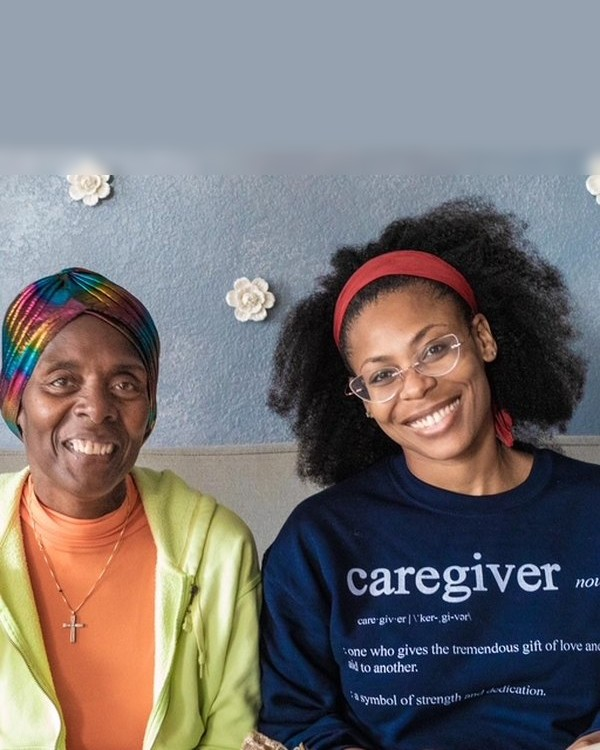
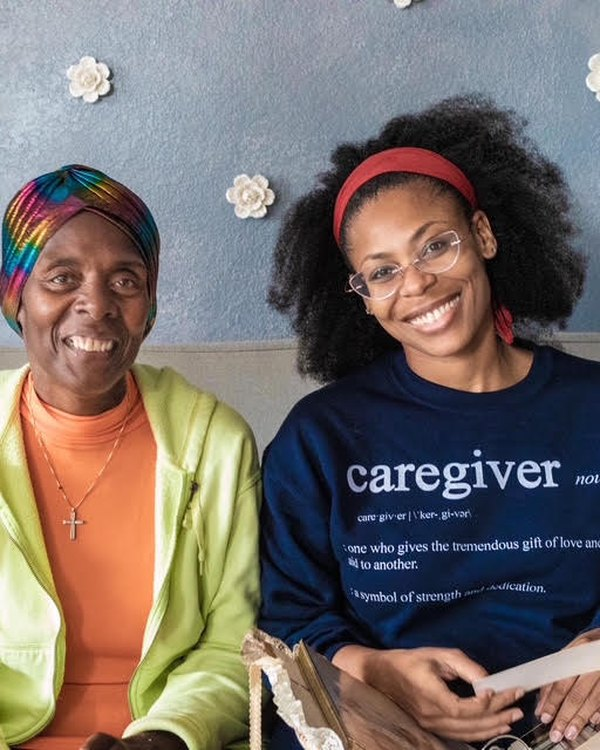
About: 63M; Alma Instagram; warm grade on all people photos; fix Jacquelyn photo

diff --git a/patch25.py b/patch25.py
@@ -1,0 +1,100 @@
+#!/usr/bin/env python3
+# ALL of today's changes in one idempotent pass (safe to re-run):
+#   1) About: 64 -> 63 million
+#   2) Alma Valencia: add Instagram handle (+ tidy stale placeholder comment)
+#   3) Photo grade: add .photo-grade CSS rule (gentle) and tag the 5 Join
+#      facilitator photos + the 2 About "who built this" photos.
+# Illustrations are intentionally left untouched. Run from repo root (~/tcd).
+
+import pathlib, sys, datetime
+STAMP = datetime.datetime.now().strftime("%Y%m%d-%H%M%S")
+
+def die(m):
+    print("ABORTED:", m); print("Nothing written. Files untouched."); sys.exit(1)
+
+RULE = (
+    "\n/* Unifying grade for all real people photos (facilitators + About). "
+    "Tune here to change every photo at once. Illustrations excluded. */\n"
+    ".photo-grade {\n"
+    "  filter: brightness(1.03) contrast(0.95) saturate(0.92) sepia(0.10);\n"
+    "}\n"
+)
+
+bufs = {}
+notes = []
+
+# ---------- about/page.tsx ----------
+pa = pathlib.Path("app/about/page.tsx")
+if not pa.exists(): die("can't find app/about/page.tsx")
+sa = pa.read_text()
+
+if "More than 64 million" in sa:
+    sa = sa.replace("More than 64 million", "More than 63 million", 1); notes.append("64->63: applied")
+elif "More than 63 million" in sa:
+    notes.append("64->63: already in place")
+else:
+    die("about: couldn't find 64/63 million line.")
+
+OLD_IMG = 'className="aspect-[4/5] w-full max-w-[320px] rounded-2xl object-cover"'
+NEW_IMG = 'className="aspect-[4/5] w-full max-w-[320px] rounded-2xl object-cover photo-grade"'
+if "rounded-2xl object-cover photo-grade" in sa:
+    notes.append("about photos grade: already in place")
+elif sa.count(OLD_IMG) == 2:
+    sa = sa.replace(OLD_IMG, NEW_IMG); notes.append("about photos grade: applied (2)")
+else:
+    die(f"about: image class expected 2 matches, found {sa.count(OLD_IMG)}.")
+bufs[pa] = sa
+
+# ---------- join/facilitators.tsx ----------
+pf = pathlib.Path("app/join/facilitators.tsx")
+if not pf.exists(): die("can't find app/join/facilitators.tsx")
+sf = pf.read_text()
+
+# Alma instagram
+if "mom_has_dementia" in sf:
+    notes.append("alma IG: already in place")
+else:
+    OLD_A = '''    photo: "/illustrations/alma.jpg",
+  },'''
+    NEW_A = '''    photo: "/illustrations/alma.jpg",
+    instagram: "https://www.instagram.com/mom_has_dementia",
+  },'''
+    if sf.count(OLD_A) != 1:
+        die(f"facilitators: Alma photo anchor expected 1 match, found {sf.count(OLD_A)}.")
+    sf = sf.replace(OLD_A, NEW_A, 1); notes.append("alma IG: applied")
+STALE = "  // Alma's Instagram handle still TBD; bio and photo confirmed.\n"
+if STALE in sf:
+    sf = sf.replace(STALE, "", 1)
+
+# facilitator img grade
+OLD_F = 'className="h-full w-full object-cover"'
+NEW_F = 'className="h-full w-full object-cover photo-grade"'
+if "object-cover photo-grade" in sf:
+    notes.append("join photos grade: already in place")
+elif sf.count(OLD_F) == 1:
+    sf = sf.replace(OLD_F, NEW_F, 1); notes.append("join photos grade: applied")
+else:
+    die(f"facilitators: image class expected 1 match, found {sf.count(OLD_F)}.")
+bufs[pf] = sf
+
+# ---------- globals.css ----------
+g = None
+for cand in ["app/globals.css", "src/app/globals.css", "styles/globals.css"]:
+    if pathlib.Path(cand).exists(): g = pathlib.Path(cand); break
+if g is None: die("couldn't find globals.css.")
+gs = g.read_text()
+if ".photo-grade" in gs:
+    notes.append("grade CSS: already in place")
+else:
+    bufs[g] = gs + RULE; notes.append("grade CSS: applied")
+
+# ---------- write ----------
+changed = 0
+for p, s in bufs.items():
+    if p.read_text() == s: continue
+    bak = p.with_suffix(p.suffix + f".bak-{STAMP}")
+    bak.write_text(p.read_text()); p.write_text(s); changed += 1
+    print(f"OK  {p}   backup: {bak.name}")
+print("Applied cleanly. " + " | ".join(notes))
+print(f"{changed} file(s) changed.")
+print("Reminder: also drop the clean jacquelyn.jpg into public/illustrations/.")